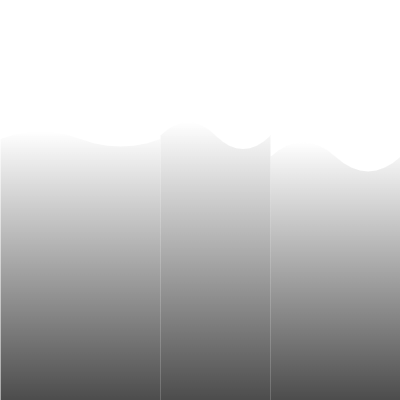
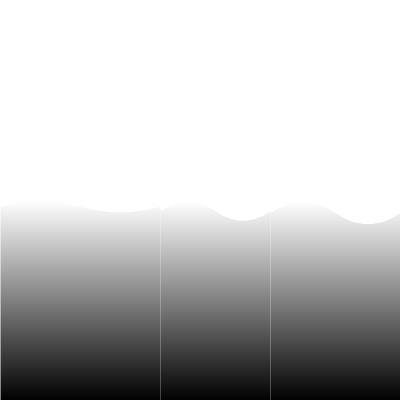
Add files via upload

diff --git a/hills.html b/hills.html
@@ -5,7 +5,7 @@
 <title>名称未設定ファイル</title>
 <meta charset="utf-8"/>
 </head>
-<body><div class="mxgraph" style="max-width:100%;border:1px solid transparent;" data-mxgraph="{&quot;highlight&quot;:&quot;#0000ff&quot;,&quot;nav&quot;:true,&quot;resize&quot;:true,&quot;toolbar&quot;:&quot;zoom layers tags lightbox&quot;,&quot;edit&quot;:&quot;_blank&quot;,&quot;xml&quot;:&quot;&lt;mxfile host=\&quot;app.diagrams.net\&quot; agent=\&quot;Mozilla/5.0 (Windows NT 10.0; Win64; x64) AppleWebKit/537.36 (KHTML, like Gecko) Chrome/127.0.0.0 Safari/537.36 Edg/127.0.0.0\&quot; version=\&quot;25.0.3\&quot;&gt;\n  &lt;diagram name=\&quot;ページ1\&quot; id=\&quot;Zi6PV2UUE8eHBD-CX2wG\&quot;&gt;\n    &lt;mxGraphModel dx=\&quot;1003\&quot; dy=\&quot;492\&quot; grid=\&quot;1\&quot; gridSize=\&quot;10\&quot; guides=\&quot;1\&quot; tooltips=\&quot;1\&quot; connect=\&quot;1\&quot; arrows=\&quot;1\&quot; fold=\&quot;1\&quot; page=\&quot;1\&quot; pageScale=\&quot;1\&quot; pageWidth=\&quot;400\&quot; pageHeight=\&quot;400\&quot; background=\&quot;#FFFFFF\&quot; math=\&quot;0\&quot; shadow=\&quot;0\&quot;&gt;\n      &lt;root&gt;\n        &lt;mxCell id=\&quot;0\&quot; /&gt;\n        &lt;mxCell id=\&quot;1\&quot; parent=\&quot;0\&quot; /&gt;\n        &lt;mxCell id=\&quot;le2FZOe1w_lXG94kaSXJ-1\&quot; value=\&quot;\&quot; style=\&quot;rounded=0;whiteSpace=wrap;html=1;strokeColor=none;\&quot; vertex=\&quot;1\&quot; parent=\&quot;1\&quot;&gt;\n          &lt;mxGeometry width=\&quot;400\&quot; height=\&quot;190\&quot; as=\&quot;geometry\&quot; /&gt;\n        &lt;/mxCell&gt;\n        &lt;mxCell id=\&quot;J-fdyOvGpkGifAWuah0N-3\&quot; value=\&quot;\&quot; style=\&quot;shape=document;whiteSpace=wrap;html=1;boundedLbl=1;flipV=1;size=0.125;strokeColor=none;gradientColor=default;gradientDirection=north;opacity=70;\&quot; parent=\&quot;1\&quot; vertex=\&quot;1\&quot;&gt;\n          &lt;mxGeometry x=\&quot;270\&quot; y=\&quot;140\&quot; width=\&quot;130\&quot; height=\&quot;260\&quot; as=\&quot;geometry\&quot; /&gt;\n        &lt;/mxCell&gt;\n        &lt;mxCell id=\&quot;J-fdyOvGpkGifAWuah0N-4\&quot; value=\&quot;\&quot; style=\&quot;shape=document;whiteSpace=wrap;html=1;boundedLbl=1;flipV=1;size=0.0625;strokeColor=none;gradientColor=default;gradientDirection=north;opacity=70;\&quot; parent=\&quot;1\&quot; vertex=\&quot;1\&quot;&gt;\n          &lt;mxGeometry y=\&quot;130\&quot; width=\&quot;160\&quot; height=\&quot;270\&quot; as=\&quot;geometry\&quot; /&gt;\n        &lt;/mxCell&gt;\n        &lt;mxCell id=\&quot;J-fdyOvGpkGifAWuah0N-5\&quot; value=\&quot;\&quot; style=\&quot;shape=document;whiteSpace=wrap;html=1;boundedLbl=1;flipV=1;size=0.10714285714285714;strokeColor=none;gradientColor=default;gradientDirection=north;opacity=70;\&quot; parent=\&quot;1\&quot; vertex=\&quot;1\&quot;&gt;\n          &lt;mxGeometry x=\&quot;160\&quot; y=\&quot;120\&quot; width=\&quot;110\&quot; height=\&quot;280\&quot; as=\&quot;geometry\&quot; /&gt;\n        &lt;/mxCell&gt;\n      &lt;/root&gt;\n    &lt;/mxGraphModel&gt;\n  &lt;/diagram&gt;\n&lt;/mxfile&gt;\n&quot;}"></div>
+<body><div class="mxgraph" style="max-width:100%;border:1px solid transparent;" data-mxgraph="{&quot;highlight&quot;:&quot;#0000ff&quot;,&quot;nav&quot;:true,&quot;resize&quot;:true,&quot;toolbar&quot;:&quot;zoom layers tags lightbox&quot;,&quot;edit&quot;:&quot;_blank&quot;,&quot;xml&quot;:&quot;&lt;mxfile host=\&quot;app.diagrams.net\&quot; agent=\&quot;Mozilla/5.0 (Windows NT 10.0; Win64; x64) AppleWebKit/537.36 (KHTML, like Gecko) Chrome/127.0.0.0 Safari/537.36 Edg/127.0.0.0\&quot; version=\&quot;25.0.3\&quot;&gt;\n  &lt;diagram name=\&quot;ページ1\&quot; id=\&quot;Zi6PV2UUE8eHBD-CX2wG\&quot;&gt;\n    &lt;mxGraphModel dx=\&quot;1003\&quot; dy=\&quot;492\&quot; grid=\&quot;1\&quot; gridSize=\&quot;10\&quot; guides=\&quot;1\&quot; tooltips=\&quot;1\&quot; connect=\&quot;1\&quot; arrows=\&quot;1\&quot; fold=\&quot;1\&quot; page=\&quot;1\&quot; pageScale=\&quot;1\&quot; pageWidth=\&quot;400\&quot; pageHeight=\&quot;400\&quot; background=\&quot;#FFFFFF\&quot; math=\&quot;0\&quot; shadow=\&quot;0\&quot;&gt;\n      &lt;root&gt;\n        &lt;mxCell id=\&quot;0\&quot; /&gt;\n        &lt;mxCell id=\&quot;1\&quot; parent=\&quot;0\&quot; /&gt;\n        &lt;mxCell id=\&quot;le2FZOe1w_lXG94kaSXJ-1\&quot; value=\&quot;\&quot; style=\&quot;rounded=0;whiteSpace=wrap;html=1;strokeColor=none;\&quot; vertex=\&quot;1\&quot; parent=\&quot;1\&quot;&gt;\n          &lt;mxGeometry width=\&quot;400\&quot; height=\&quot;220\&quot; as=\&quot;geometry\&quot; /&gt;\n        &lt;/mxCell&gt;\n        &lt;mxCell id=\&quot;J-fdyOvGpkGifAWuah0N-3\&quot; value=\&quot;\&quot; style=\&quot;shape=document;whiteSpace=wrap;html=1;boundedLbl=1;flipV=1;size=0.125;strokeColor=none;gradientColor=default;gradientDirection=north;\&quot; parent=\&quot;1\&quot; vertex=\&quot;1\&quot;&gt;\n          &lt;mxGeometry x=\&quot;270\&quot; y=\&quot;200\&quot; width=\&quot;130\&quot; height=\&quot;200\&quot; as=\&quot;geometry\&quot; /&gt;\n        &lt;/mxCell&gt;\n        &lt;mxCell id=\&quot;J-fdyOvGpkGifAWuah0N-4\&quot; value=\&quot;\&quot; style=\&quot;shape=document;whiteSpace=wrap;html=1;boundedLbl=1;flipV=1;size=0.0625;strokeColor=none;gradientColor=default;gradientDirection=north;\&quot; parent=\&quot;1\&quot; vertex=\&quot;1\&quot;&gt;\n          &lt;mxGeometry y=\&quot;200\&quot; width=\&quot;160\&quot; height=\&quot;200\&quot; as=\&quot;geometry\&quot; /&gt;\n        &lt;/mxCell&gt;\n        &lt;mxCell id=\&quot;J-fdyOvGpkGifAWuah0N-5\&quot; value=\&quot;\&quot; style=\&quot;shape=document;whiteSpace=wrap;html=1;boundedLbl=1;flipV=1;size=0.10714285714285714;strokeColor=none;gradientColor=default;gradientDirection=north;\&quot; parent=\&quot;1\&quot; vertex=\&quot;1\&quot;&gt;\n          &lt;mxGeometry x=\&quot;160\&quot; y=\&quot;200\&quot; width=\&quot;110\&quot; height=\&quot;200\&quot; as=\&quot;geometry\&quot; /&gt;\n        &lt;/mxCell&gt;\n      &lt;/root&gt;\n    &lt;/mxGraphModel&gt;\n  &lt;/diagram&gt;\n&lt;/mxfile&gt;\n&quot;}"></div>
 <script type="text/javascript" src="https://viewer.diagrams.net/js/viewer-static.min.js"></script>
 </body>
 </html>
